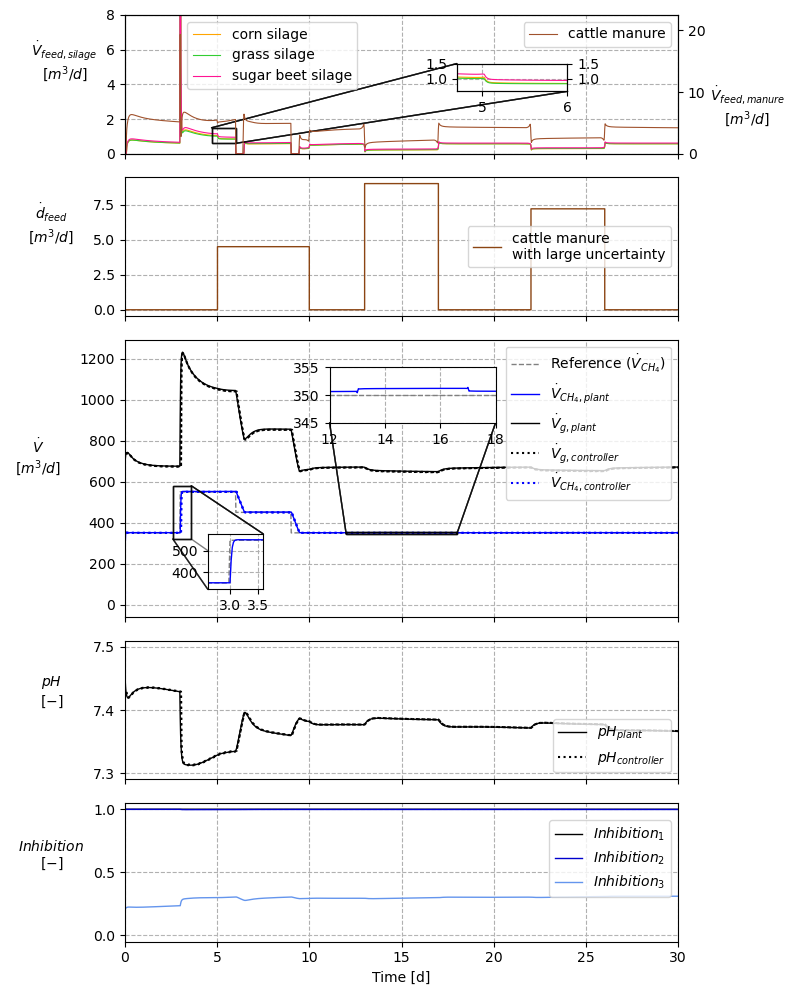
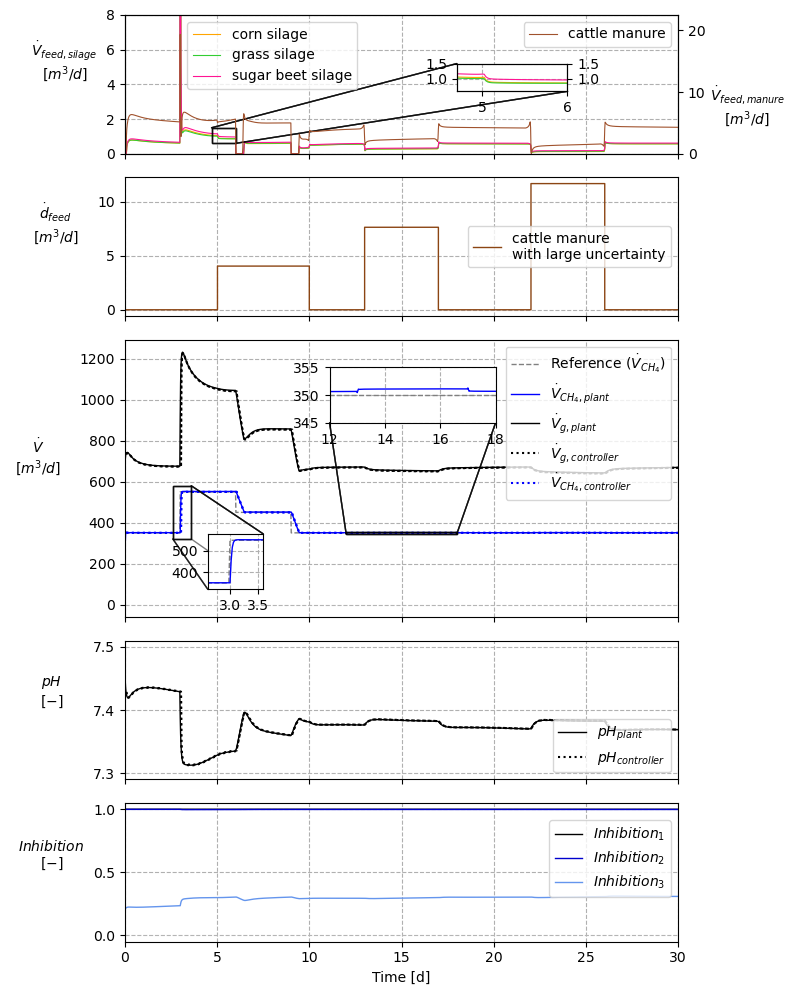
update values of dictated feeding for scenario 1b

diff --git a/ad_meal_prep_control/scenarios/scenario_1b_nominal.py b/ad_meal_prep_control/scenarios/scenario_1b_nominal.py
@@ -48,9 +48,9 @@ kwargs = {
     "disturbances": Disturbances(
         dictated_feeding={
             "CATTLE_MANURE_VERY_UNCERTAIN": [
-                (5.0, 10.0, 0.01),
-                (13.0, 17.0, 0.02),
-                (22.0, 26.0, 0.016),
+                (5.0, 10.0, 0.009),
+                (13.0, 17.0, 0.017),
+                (22.0, 26.0, 0.026),
             ],
         },
         #max_feeding_error=0.05,

diff --git a/ad_meal_prep_control/scenarios/scenario_1b_robust.py b/ad_meal_prep_control/scenarios/scenario_1b_robust.py
@@ -48,9 +48,9 @@ kwargs = {
     "disturbances": Disturbances(
         dictated_feeding={
             "CATTLE_MANURE_VERY_UNCERTAIN": [
-                (5.0, 10.0, 0.01),
-                (13.0, 17.0, 0.02),
-                (22.0, 26.0, 0.016),
+                (5.0, 10.0, 0.009),
+                (13.0, 17.0, 0.017),
+                (22.0, 26.0, 0.026),
             ],
         },
         #max_feeding_error=0.05,
